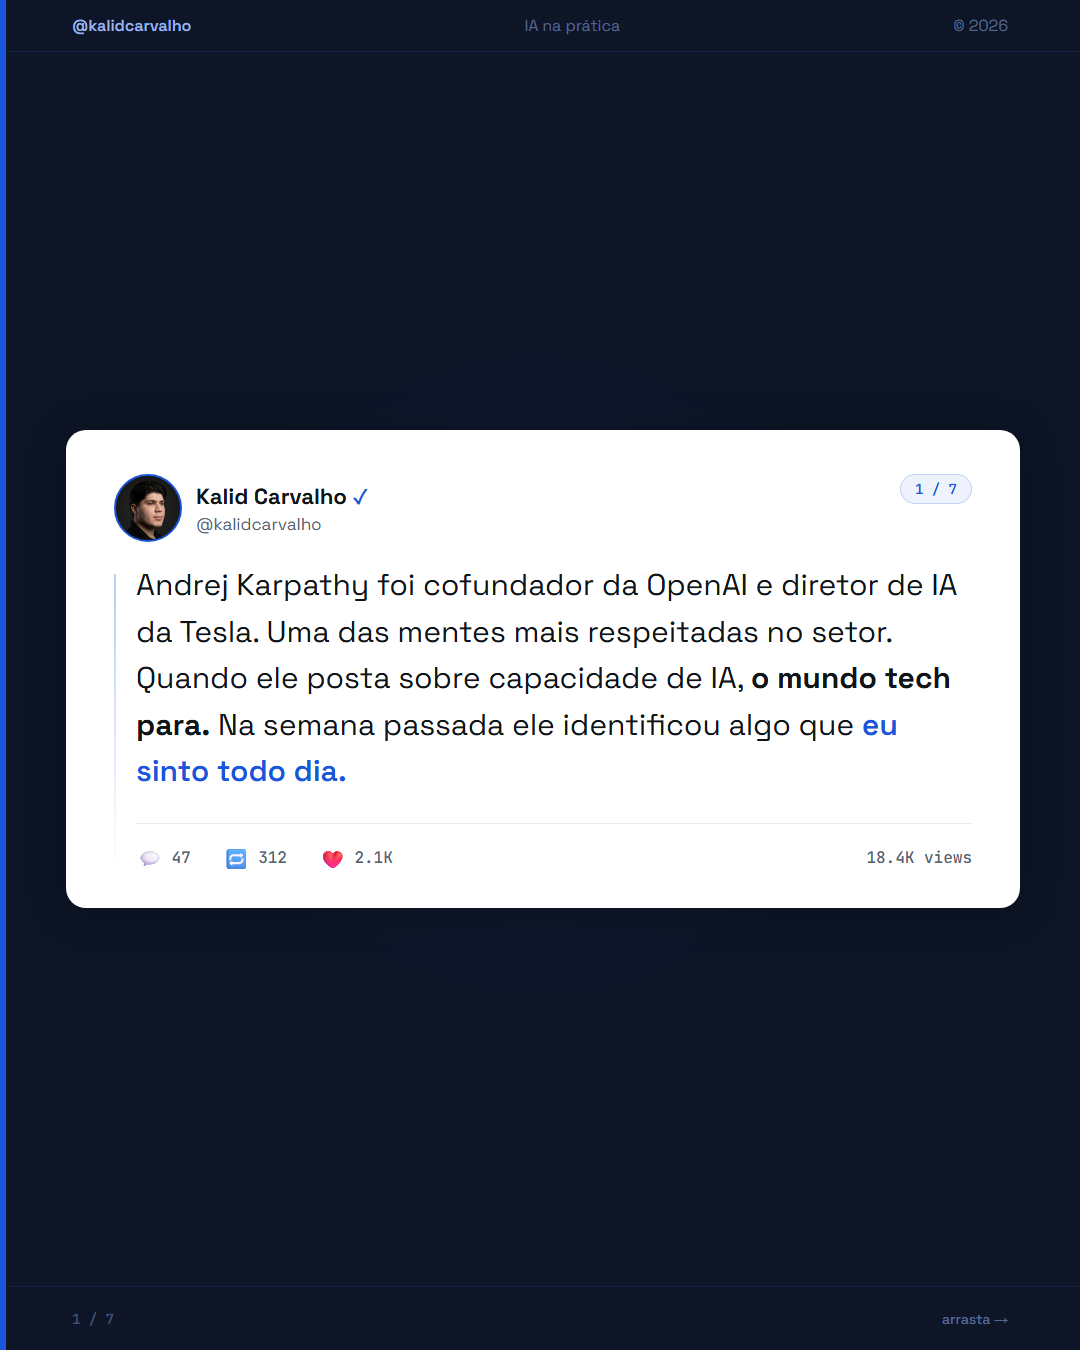
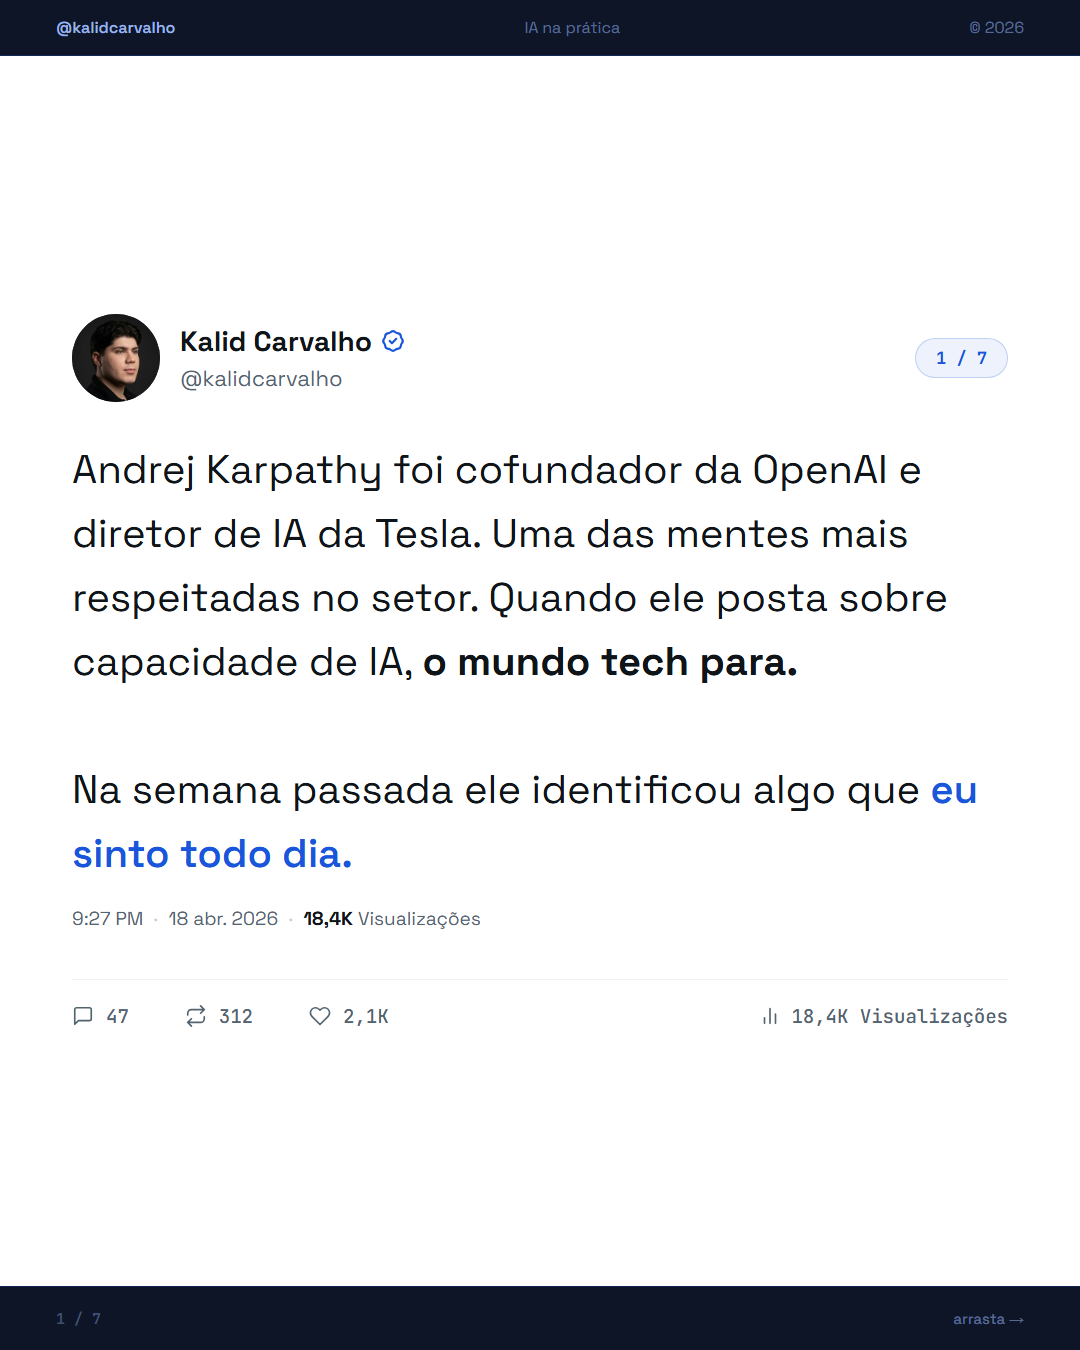
auto-sync: 2026-04-18 09:34

diff --git a/conteudo/kalidcarvalho/carrosseis/2026-04-18/instagram/slide-01.html b/conteudo/kalidcarvalho/carrosseis/2026-04-18/instagram/slide-01.html
@@ -11,108 +11,121 @@
 * { margin: 0; padding: 0; box-sizing: border-box; }
 body {
   width: 1080px; height: 1350px;
-  background: #0D1526;
+  background: #F7F9FC;
   font-family: 'Space Grotesk', sans-serif;
   overflow: hidden; position: relative;
 }
-.accent-bar { position: absolute; left: 0; top: 0; bottom: 0; width: 6px; background: #1A56DB; z-index: 5; }
-.glow { position: absolute; left: 50%; top: 50%; transform: translate(-50%, -50%); width: 800px; height: 800px; background: radial-gradient(circle, rgba(26,86,219,0.09) 0%, transparent 65%); z-index: 1; pointer-events: none; }
 
 /* TOP HEADER */
 .top-header {
-  position: absolute; top: 0; left: 0; right: 0; height: 52px;
+  position: absolute; top: 0; left: 0; right: 0; height: 56px;
   display: flex; align-items: center; justify-content: space-between;
-  padding: 0 72px;
-  border-bottom: 1px solid rgba(26,86,219,0.18); z-index: 15;
+  padding: 0 56px;
+  background: #0D1526;
+  border-bottom: 1px solid rgba(26,86,219,0.30);
+  z-index: 15;
 }
-.top-header span { font-size: 16px; font-weight: 400; color: rgba(155,179,232,0.50); }
+.top-header span { font-size: 16px; font-weight: 400; color: rgba(155,179,232,0.55); }
 .top-header .brand { font-weight: 600; color: #9BB3E8; }
 
-/* TWEET CARD */
-.card-wrapper {
+/* TWEET CARD — fills between header and bottom bar */
+.tweet-card {
   position: absolute;
-  top: 52px; left: 6px; right: 0; bottom: 64px;
-  display: flex; align-items: center; justify-content: center;
-  padding: 0 60px;
-  z-index: 5;
+  top: 56px; left: 0; right: 0; bottom: 64px;
+  background: #FFFFFF;
+  padding: 64px 72px;
+  display: flex;
+  flex-direction: column;
+  justify-content: center;
+  gap: 48px;
 }
 
-.tweet-card {
-  background: #FFFFFF;
-  border-radius: 20px;
-  padding: 44px 48px 36px;
-  width: 100%;
-  box-shadow: 0 4px 40px rgba(0,0,0,0.25);
-}
+/* Top block */
+.tweet-top { display: flex; flex-direction: column; }
 
 /* Card header */
 .card-header {
   display: flex;
-  align-items: flex-start;
+  align-items: center;
   justify-content: space-between;
-  margin-bottom: 20px;
+  margin-bottom: 36px;
 }
-.author-block { display: flex; align-items: center; gap: 14px; }
-.avatar { width: 68px; height: 68px; border-radius: 50%; border: 2px solid #1A56DB; overflow: hidden; flex-shrink: 0; background: #1C2D4A; }
+.author-block { display: flex; align-items: center; gap: 20px; }
+.avatar {
+  width: 88px; height: 88px; border-radius: 50%;
+  overflow: hidden; flex-shrink: 0; background: #1C2D4A;
+}
 .avatar img { width: 100%; height: 100%; object-fit: cover; object-position: top center; }
-.author-info { display: flex; flex-direction: column; gap: 3px; }
+.author-info { display: flex; flex-direction: column; gap: 5px; }
 .author-name {
-  font-size: 22px; font-weight: 700; color: #0F1419;
-  display: flex; align-items: center; gap: 6px;
+  font-size: 28px; font-weight: 700; color: #0F1419;
+  display: flex; align-items: center; gap: 8px;
 }
-.check { color: #1A56DB; font-size: 20px; }
-.author-handle { font-size: 17px; font-weight: 400; color: #536471; }
+.check-icon { color: #1A56DB; }
+.author-handle { font-size: 22px; font-weight: 400; color: #536471; }
 .thread-num {
   font-family: 'JetBrains Mono', monospace;
-  font-size: 14px; font-weight: 600;
+  font-size: 17px; font-weight: 700;
   color: #1A56DB;
   background: rgba(26,86,219,0.08);
-  border: 1px solid rgba(26,86,219,0.20);
+  border: 1.5px solid rgba(26,86,219,0.22);
   border-radius: 100px;
-  padding: 5px 14px;
-  white-space: nowrap;
+  padding: 8px 20px;
 }
 
-/* Thread line */
-.thread-body { display: flex; gap: 20px; }
-.thread-line-col { display: flex; flex-direction: column; align-items: center; padding-top: 4px; }
-.thread-line { width: 2px; flex: 1; background: linear-gradient(to bottom, rgba(26,86,219,0.30) 0%, transparent 100%); min-height: 40px; margin-top: 8px; }
-.tweet-content { flex: 1; }
-
-/* Tweet text */
+/* Tweet text area */
 .tweet-text {
-  font-size: 30px; font-weight: 400;
-  color: #0F1419; line-height: 1.55;
-  margin-bottom: 28px;
+  font-size: 40px; font-weight: 400;
+  color: #0F1419; line-height: 1.60;
 }
 .tweet-text strong { font-weight: 700; }
 .tweet-text em { color: #1A56DB; font-style: normal; font-weight: 600; }
 
+/* Timestamp */
+.tweet-timestamp {
+  font-size: 19px; color: #536471;
+  margin-top: 20px;
+}
+.tweet-timestamp span { margin: 0 6px; color: #ccc; }
+
 /* Metrics */
 .metrics {
-  display: flex; align-items: center; gap: 32px;
-  padding-top: 20px;
-  border-top: 1px solid rgba(0,0,0,0.08);
+  display: flex; align-items: center; gap: 0;
+  padding-top: 24px;
+  border-top: 1px solid #EFF3F4;
 }
-.metric { display: flex; align-items: center; gap: 8px; }
-.metric-icon { font-size: 20px; }
-.metric-val { font-family: 'JetBrains Mono', monospace; font-size: 16px; font-weight: 500; color: #536471; }
-.metric-views { margin-left: auto; font-family: 'JetBrains Mono', monospace; font-size: 16px; color: #536471; }
+.metric {
+  display: flex; align-items: center; gap: 12px;
+  margin-right: 56px;
+  color: #536471;
+}
+.metric svg { width: 22px; height: 22px; fill: none; stroke: #536471; stroke-width: 1.8; }
+.metric-val {
+  font-family: 'JetBrains Mono', monospace;
+  font-size: 19px; font-weight: 500; color: #536471;
+}
+.metric-views {
+  margin-left: auto;
+  font-family: 'JetBrains Mono', monospace;
+  font-size: 19px; color: #536471;
+  display: flex; align-items: center; gap: 10px;
+}
+.metric-views svg { width: 22px; height: 22px; fill: none; stroke: #536471; stroke-width: 1.8; }
 
 /* BOTTOM BAR */
 .bottom-bar {
   position: absolute; bottom: 0; left: 0; right: 0; height: 64px;
   display: flex; align-items: center; justify-content: space-between;
-  padding: 0 72px; z-index: 15;
-  border-top: 1px solid rgba(26,86,219,0.15);
+  padding: 0 56px;
+  background: #0D1526;
+  border-top: 1px solid rgba(26,86,219,0.25);
+  z-index: 15;
 }
-.progress { font-family: 'JetBrains Mono', monospace; font-size: 14px; font-weight: 500; color: rgba(155,179,232,0.40); }
-.swipe { font-size: 14px; font-weight: 500; color: rgba(155,179,232,0.55); }
+.progress { font-family: 'JetBrains Mono', monospace; font-size: 15px; font-weight: 500; color: rgba(155,179,232,0.40); }
+.swipe { font-size: 15px; font-weight: 500; color: rgba(155,179,232,0.55); }
 </style>
 </head>
 <body>
-<div class="accent-bar"></div>
-<div class="glow"></div>
 
 <div class="top-header">
   <span class="brand">@kalidcarvalho</span>
@@ -120,43 +133,61 @@ body {
   <span>© 2026</span>
 </div>
 
-<div class="card-wrapper">
-  <div class="tweet-card">
+<div class="tweet-card">
+  <div class="tweet-top">
     <div class="card-header">
       <div class="author-block">
         <div class="avatar"><img src="../../../../../marca/foto-perfil.png" alt="Kalid Carvalho"></div>
         <div class="author-info">
-          <span class="author-name">Kalid Carvalho <span class="check">✓</span></span>
+          <span class="author-name">Kalid Carvalho
+            <svg class="check-icon" width="26" height="26" viewBox="0 0 24 24" fill="#1A56DB" xmlns="http://www.w3.org/2000/svg">
+              <path d="M9 12l2 2 4-4M7.835 4.697a3.42 3.42 0 001.946-.806 3.42 3.42 0 014.438 0 3.42 3.42 0 001.946.806 3.42 3.42 0 013.138 3.138 3.42 3.42 0 00.806 1.946 3.42 3.42 0 010 4.438 3.42 3.42 0 00-.806 1.946 3.42 3.42 0 01-3.138 3.138 3.42 3.42 0 00-1.946.806 3.42 3.42 0 01-4.438 0 3.42 3.42 0 00-1.946-.806 3.42 3.42 0 01-3.138-3.138 3.42 3.42 0 00-.806-1.946 3.42 3.42 0 010-4.438 3.42 3.42 0 00.806-1.946 3.42 3.42 0 013.138-3.138z" stroke="#1A56DB" stroke-width="2" fill="none" stroke-linecap="round" stroke-linejoin="round"/>
+            </svg>
+          </span>
           <span class="author-handle">@kalidcarvalho</span>
         </div>
       </div>
       <span class="thread-num">1 / 7</span>
     </div>
 
-    <div class="thread-body">
-      <div class="thread-line-col">
-        <div class="thread-line"></div>
-      </div>
-      <div class="tweet-content">
-        <p class="tweet-text">
-          Andrej Karpathy foi cofundador da OpenAI e diretor de IA da Tesla. Uma das mentes mais respeitadas no setor. Quando ele posta sobre capacidade de IA, <strong>o mundo tech para.</strong> Na semana passada ele identificou algo que <em>eu sinto todo dia.</em>
-        </p>
-        <div class="metrics">
-          <div class="metric">
-            <span class="metric-icon">💬</span>
-            <span class="metric-val">47</span>
-          </div>
-          <div class="metric">
-            <span class="metric-icon">🔁</span>
-            <span class="metric-val">312</span>
-          </div>
-          <div class="metric">
-            <span class="metric-icon">❤</span>
-            <span class="metric-val">2.1K</span>
-          </div>
-          <span class="metric-views">18.4K views</span>
-        </div>
-      </div>
+    <p class="tweet-text">
+      Andrej Karpathy foi cofundador da OpenAI e diretor de IA da Tesla. Uma das mentes mais respeitadas no setor. Quando ele posta sobre capacidade de IA, <strong>o mundo tech para.</strong><br><br>
+      Na semana passada ele identificou algo que <em>eu sinto todo dia.</em>
+    </p>
+
+    <div class="tweet-timestamp">
+      9:27 PM <span>·</span> 18 abr. 2026 <span>·</span> <strong style="color:#0F1419;">18,4K</strong> Visualizações
+    </div>
+  </div><!-- /.tweet-top -->
+
+  <div class="metrics">
+    <div class="metric">
+      <!-- Comment -->
+      <svg viewBox="0 0 24 24" xmlns="http://www.w3.org/2000/svg">
+        <path d="M21 15a2 2 0 0 1-2 2H7l-4 4V5a2 2 0 0 1 2-2h14a2 2 0 0 1 2 2z" stroke-linecap="round" stroke-linejoin="round"/>
+      </svg>
+      <span class="metric-val">47</span>
+    </div>
+    <div class="metric">
+      <!-- Retweet -->
+      <svg viewBox="0 0 24 24" xmlns="http://www.w3.org/2000/svg">
+        <path d="M17 1l4 4-4 4M3 11V9a4 4 0 0 1 4-4h14M7 23l-4-4 4-4M21 13v2a4 4 0 0 1-4 4H3" stroke-linecap="round" stroke-linejoin="round"/>
+      </svg>
+      <span class="metric-val">312</span>
+    </div>
+    <div class="metric">
+      <!-- Heart -->
+      <svg viewBox="0 0 24 24" xmlns="http://www.w3.org/2000/svg">
+        <path d="M20.84 4.61a5.5 5.5 0 0 0-7.78 0L12 5.67l-1.06-1.06a5.5 5.5 0 0 0-7.78 7.78l1.06 1.06L12 21.23l7.78-7.78 1.06-1.06a5.5 5.5 0 0 0 0-7.78z" stroke-linecap="round" stroke-linejoin="round"/>
+      </svg>
+      <span class="metric-val">2,1K</span>
+    </div>
+    <div class="metric-views">
+      <!-- Chart/Views -->
+      <svg viewBox="0 0 24 24" xmlns="http://www.w3.org/2000/svg">
+        <path d="M18 20V10M12 20V4M6 20v-6" stroke-linecap="round" stroke-linejoin="round"/>
+      </svg>
+      <span>18,4K Visualizações</span>
     </div>
   </div>
 </div>
@@ -165,5 +196,6 @@ body {
   <span class="progress">1 / 7</span>
   <span class="swipe">arrasta →</span>
 </div>
+
 </body>
 </html>
